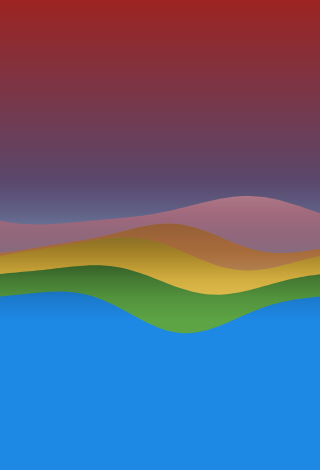
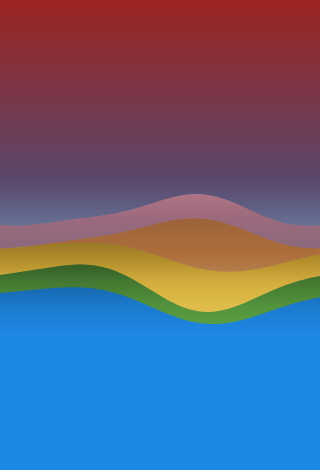
docs: vary the layout per palette and per preset with distinct seeds
The palette GIFs and the preset stills all shared the default seed, so they
were the same wave shape recolored. Each palette and each color preset now
uses its own seed, and the three shadow examples keep a shared seed so the
shadow stays the only difference between them.

diff --git a/kwave/src/androidUnitTest/kotlin/red/rankorr/kwave/WaveScreenshotTest.kt b/kwave/src/androidUnitTest/kotlin/red/rankorr/kwave/WaveScreenshotTest.kt
@@ -70,6 +70,7 @@ class WaveScreenshotTest {
             config = WaveConfig.generate(
                 waveCount = 3,
                 colors = WaveColors.gradient(Color(0xFF1565C0), Color(0xFF0D47A1)),
+                seed = 7,
             ),
             phase = 0f,
             time = 0f,
@@ -91,6 +92,7 @@ class WaveScreenshotTest {
                         Color(0xFF1E88E5), // blue
                     ),
                 ),
+                seed = 3,
             ),
             phase = 0f,
             time = 0f,
@@ -104,6 +106,7 @@ class WaveScreenshotTest {
             config = WaveConfig.generate(
                 waveCount = 2,
                 colors = WaveColors.gradient(Color(0xFF2E7D32), Color(0xFF1B5E20)),
+                seed = 5,
             ),
             phase = 0f,
             time = 0f,
@@ -117,6 +120,7 @@ class WaveScreenshotTest {
             config = WaveConfig.generate(
                 waveCount = 5,
                 colors = WaveColors.gradient(Color(0xFF6A1B9A), Color(0xFF311B92)),
+                seed = 11,
             ),
             phase = 0f,
             time = 0f,
@@ -133,6 +137,7 @@ class WaveScreenshotTest {
             config = WaveConfig.generate(
                 waveCount = 4,
                 colors = WaveColors.solid(Color(0xFF00897B)), // teal, like the reported case
+                seed = 13,
             ),
             phase = 0f,
             time = 0f,
@@ -147,6 +152,7 @@ class WaveScreenshotTest {
                 waveCount = 4,
                 colors = WaveColors.gradient(Color(0xFF26A69A), Color(0xFF00695C)),
                 shadow = ShadowMode.FromWave,
+                seed = 19,
             ),
             phase = 0f,
             time = 0f,
@@ -163,6 +169,7 @@ class WaveScreenshotTest {
                 waveCount = 4,
                 colors = WaveColors.gradient(Color(0xFF26A69A), Color(0xFF00695C)),
                 shadow = ShadowMode.Custom(Color(0xFF1A237E), alpha = 0.7f),
+                seed = 19,
             ),
             phase = 0f,
             time = 0f,
@@ -177,6 +184,7 @@ class WaveScreenshotTest {
                 waveCount = 4,
                 colors = WaveColors.gradient(Color(0xFF26A69A), Color(0xFF00695C)),
                 shadow = ShadowMode.None,
+                seed = 19,
             ),
             phase = 0f,
             time = 0f,
@@ -208,6 +216,7 @@ class WaveScreenshotTest {
                 waveCount = 5,
                 variation = 1f,
                 colors = WaveColors.gradient(Color(0xFF455A64), Color(0xFF263238)),
+                seed = 31,
             ),
             phase = 0f,
             time = 0f,

diff --git a/sample/src/jvmMain/kotlin/red/rankorr/kwave/sample/GifGenerator.kt b/sample/src/jvmMain/kotlin/red/rankorr/kwave/sample/GifGenerator.kt
@@ -87,15 +87,17 @@ private val ORIENTATIONS = listOf(
 
 fun main() {
     File(OUTPUT_DIR).mkdirs()
-    for (look in LOOKS) {
+    for ((index, look) in LOOKS.withIndex()) {
         // Tightly packed, lower-amplitude layers with strong per-layer phase offset, so the wave
         // lines weave and cross each other (small spacing = overlap, even phase spread = crossings).
+        // A distinct seed per palette gives each one its own layout, not just a recolor.
         val config = WaveConfig.generate(
             waveCount = 6,
             crests = 1.2f,
             spacing = 0.4f,
             amplitude = 0.026f,
             variation = 0.3f,
+            seed = index + 1,
             colors = look.colors,
         )
         for (orientation in ORIENTATIONS) {
